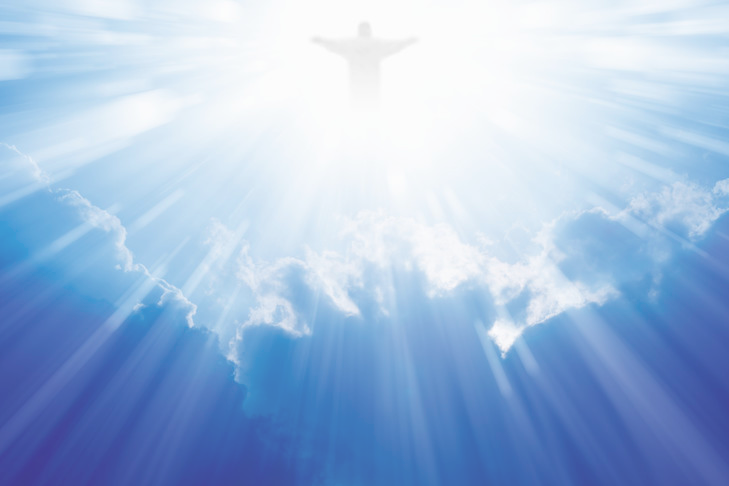
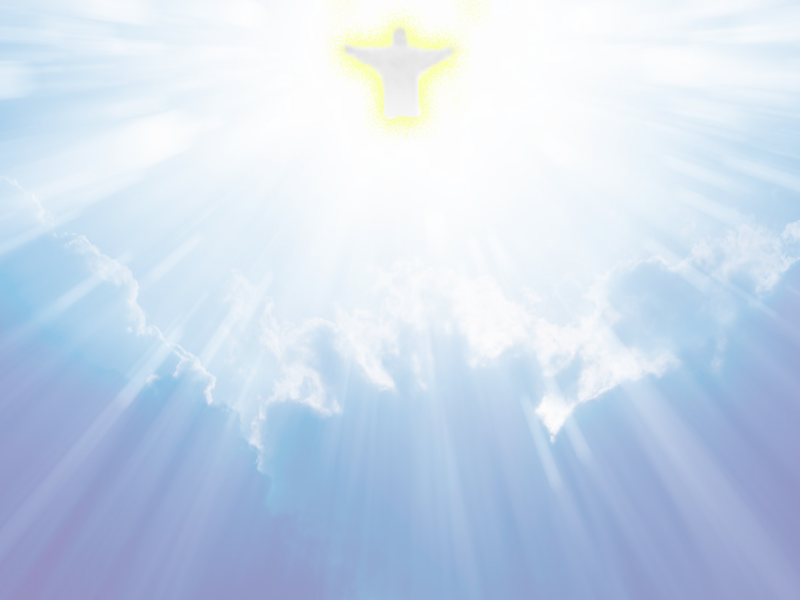
god cactus

diff --git a/index.js b/index.js
@@ -151,8 +151,11 @@ const specialDrugsList = [
     },
     {
         sprite: 'cactus',
-        effect: () => {
-            // this.add.image(800, 600, 'god');
+        effect: function() {
+            const godImg = this.add.image(0, 0, 'god').setOrigin(0, 0);
+            setTimeout(() => {
+                godImg.destroy();
+            }, 8000)
         },
         score: 120,
     },
@@ -432,7 +435,7 @@ function destroy2(_, elem) {
 }
 
 function addDrug() {
-    const type = Math.floor(Math.random() * 20) === 0 ? specialDrugsList[Math.floor(Math.random() * specialDrugsList.length)] : default_drug;
+    const type = Math.floor(Math.random() * 1) === 0 ? specialDrugsList[Math.floor(Math.random() * specialDrugsList.length)] : default_drug;
     const x = Math.floor(Math.random() * 800);
     let drug = drugs.create(x, 0, type.sprite).setScale(0.5);
     if (new_drugs_apply_effect_with_this_very_long_variable) {
